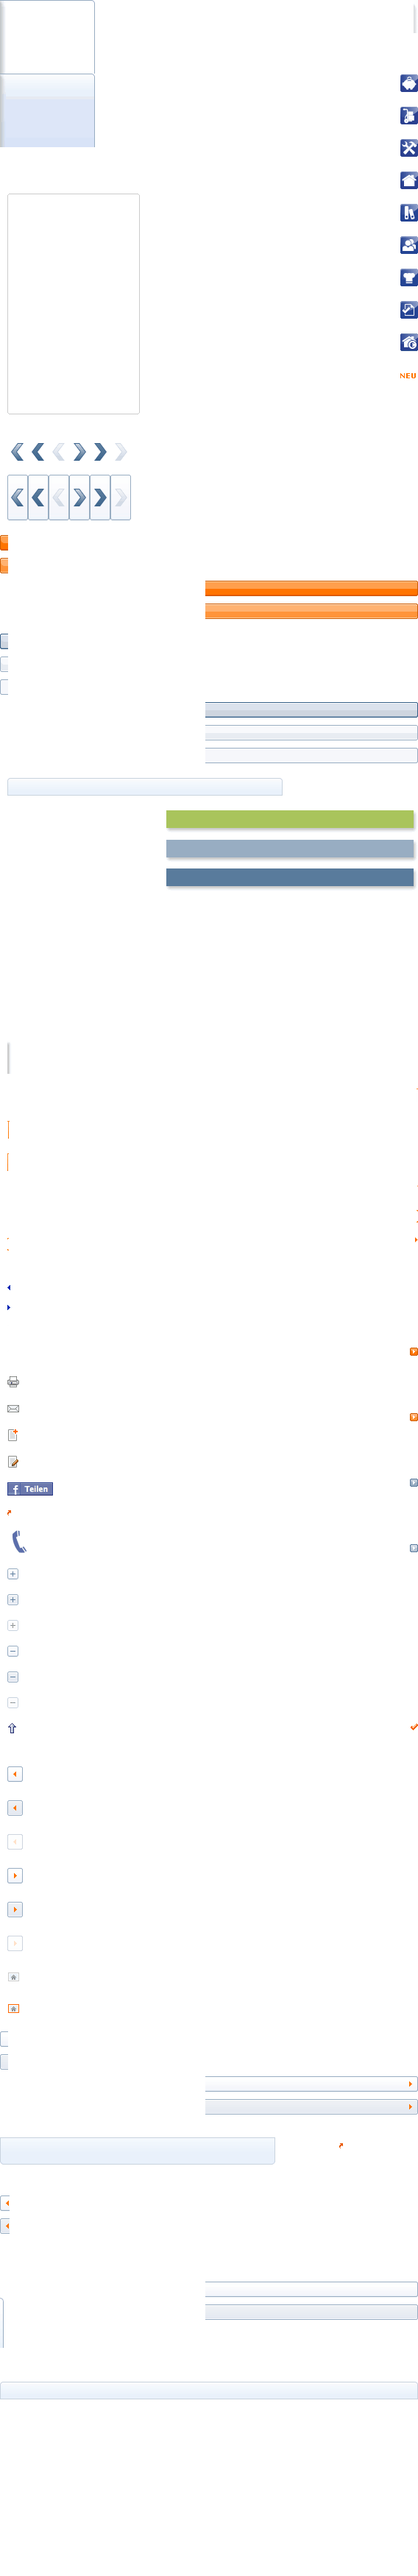
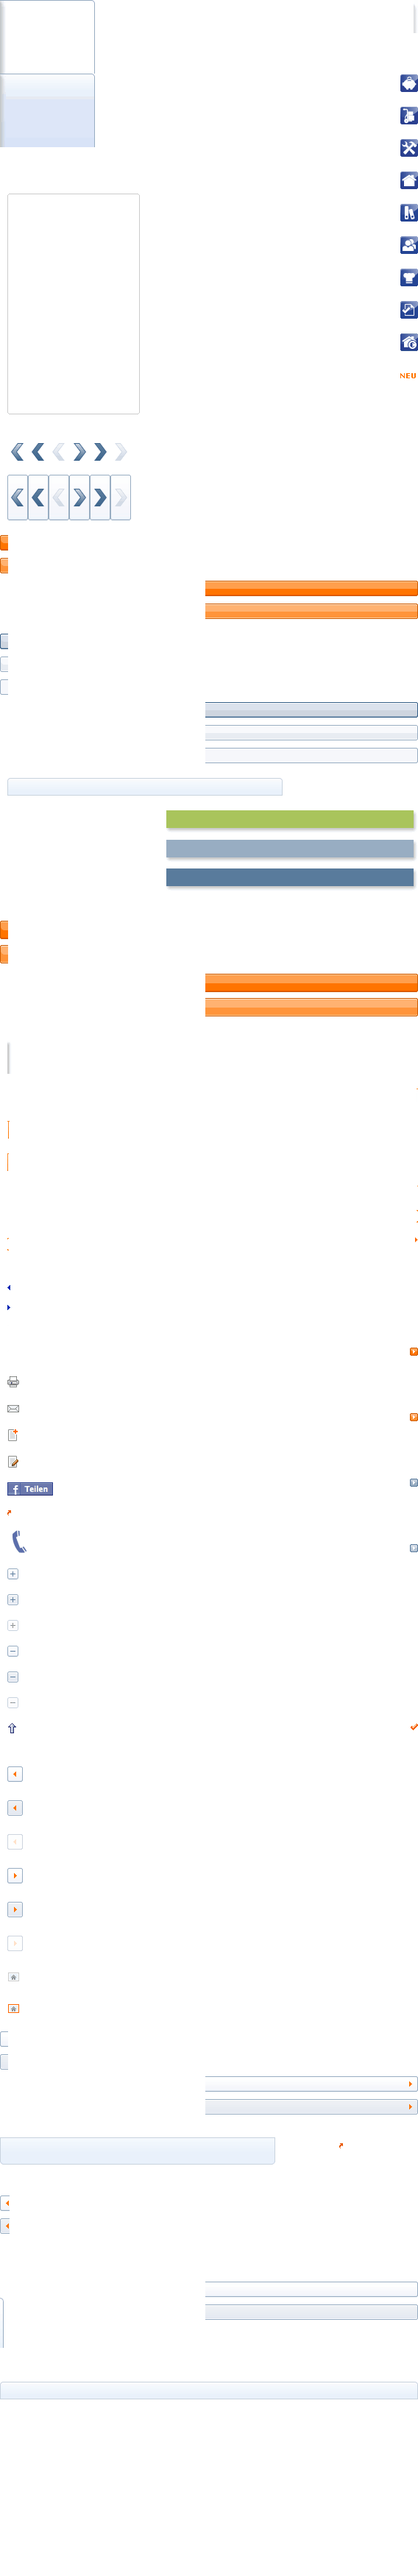
new version

Changed region(s): [[0.4789, 0.3737, 1.0, 0.4049], [0.0, 0.3426, 0.0299, 0.3737]]

diff --git a/removal_decider.css b/removal_decider.css
@@ -84,8 +84,7 @@
 .removal_decider .removal_decider_form .submit {
   margin: 15px 0 0 48px;
 }
-.removal_decider .submit a,
-.removal_decider .company_removal_link a {
+.removal_decider .submit a {
   background: url("images/sp_expose.png") no-repeat scroll 100% -789px transparent;
   font-style: normal;
   font-weight: bold;
@@ -93,13 +92,23 @@
   text-decoration:none !important;
   cursor: pointer;
 }
-.removal_decider .submit a:hover,
-.removal_decider .company_removal_link a:hover {
+.removal_decider .company_removal_link a {
+  background: url("images/sp_expose.png") no-repeat scroll 100% -1323px transparent;
+  font-style: normal;
+  font-weight: bold;
+  display: inline-block;
+  text-decoration:none !important;
+  cursor: pointer;
+}
+.removal_decider .submit a:hover {
   background-position: 100% -820px;
   color: #FFFFFF;
 }
-.removal_decider .submit a span,
-.removal_decider .company_removal_link a span {
+.removal_decider .company_removal_link a:hover {
+  background-position: 100% -1356px;
+  color: #FFFFFF;
+}
+.removal_decider .submit a span {
   font-size: 1.2em;
   background: url("images/sp_expose.png") no-repeat scroll 0 -727px transparent;
   padding:0 15px 2px 15px;
@@ -110,12 +119,14 @@
   color: #ffffff;
   font-weight: bold;
 }
-.removal_decider .submit a span:hover,
-.removal_decider .company_removal_link a span:hover {
+.removal_decider .submit a span:hover { 
   background-position: 0 -758px;
   text-shadow: none;
 }
-
+.removal_decider .company_removal_link a span:hover {
+  background-position: 0 -1284px;
+  text-shadow: none;
+}
 .removal_decider .own_removal, 
 .removal_decider .company_removal {
   float: left;
@@ -255,17 +266,25 @@
   padding-bottom: 2px;
 }
 .removal_decider .company_removal .company_removal_link {
-  margin: 7px 20px 0 125px;
+  margin: 7px 20px 0 75px;
   padding: 0 0 7px 9px;
   border-bottom: 2px solid #B1B1B1;
 }
 .removal_decider .company_removal .company_removal_link_line {
   height: 4px;
-  margin: 0 20px 0 125px;
+  margin: 0 20px 0 75px;
   padding: 0; 
 }
 .removal_decider .company_removal_link a span {
-  font-size: 0.79em;
+  font-size: 1em;
+  background:url("images/sp_expose.png") no-repeat scroll 0 -1251px transparent;
+  color:#FFFFFF;
+  display:inline-block;
+  font-weight:bold;
+  line-height:19px !important;
+  margin-left:-2px;
+  padding: 3px 20px;
+  text-shadow:-1px -1px 0 #FF7500, 1px -1px 0 #FF7500, 0 -1px 0 #FF7500, 0 1px 1px #FF7500;
 }
 .removal_decider .error_box {
   -webkit-border-radius: 4px 4px;

diff --git a/removal_decider.html b/removal_decider.html
@@ -3,10 +3,10 @@
   <head>
     <meta name="description" content="Umzugsentscheider" />
     <meta name="keywords" content="Umzug" />
-    <meta name="author" content="Michael Nindl" />
+    <meta name="author" content="" />
     <meta http-equiv="Content-Type" content="text/html; charset=utf-8">
     <link href="reset_min.css" type="text/css" rel="stylesheet"/>
-    <link href="removal_decider_min.css" type="text/css" rel="stylesheet"/>
+    <link href="removal_decider.css" type="text/css" rel="stylesheet"/>
     <title>Umzugs Entscheider</title>
   </head>
   <body class="removal_decider">
@@ -108,7 +108,7 @@
             <li>Rundum-Versicherung</li>
             <li>individuelle Beratung</li>
             <li>erfahrene Mitarbeiter</li>
-            <li>Planungssicherheit</li>
+            <li>einen stressfreien Umzug</li>
           </ul>
           <div class="company_removal_link">
             <a href="http://www.immobilienscout24.de/de/umzug/umzugsunternehmen/umzug-easy.jsp">
